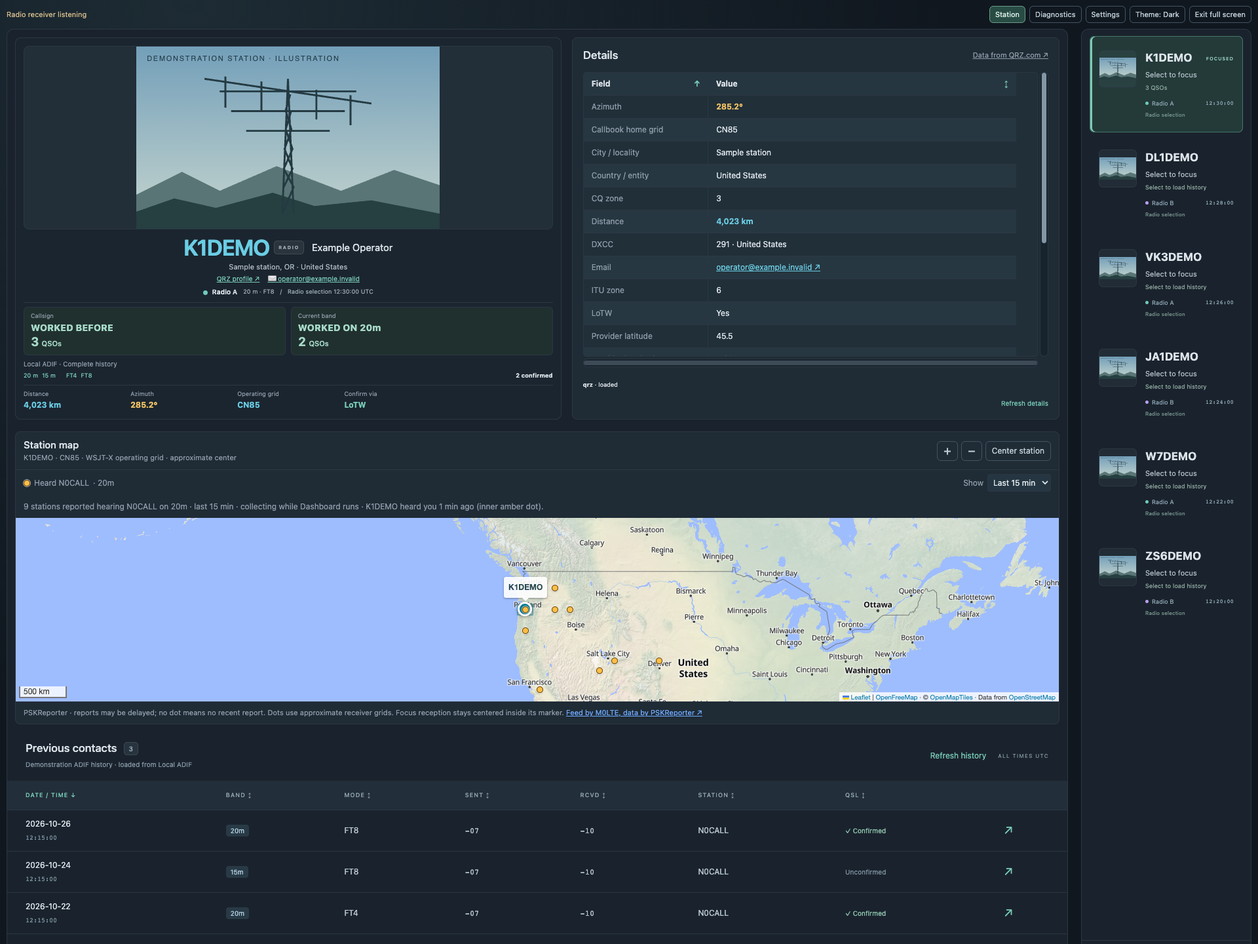
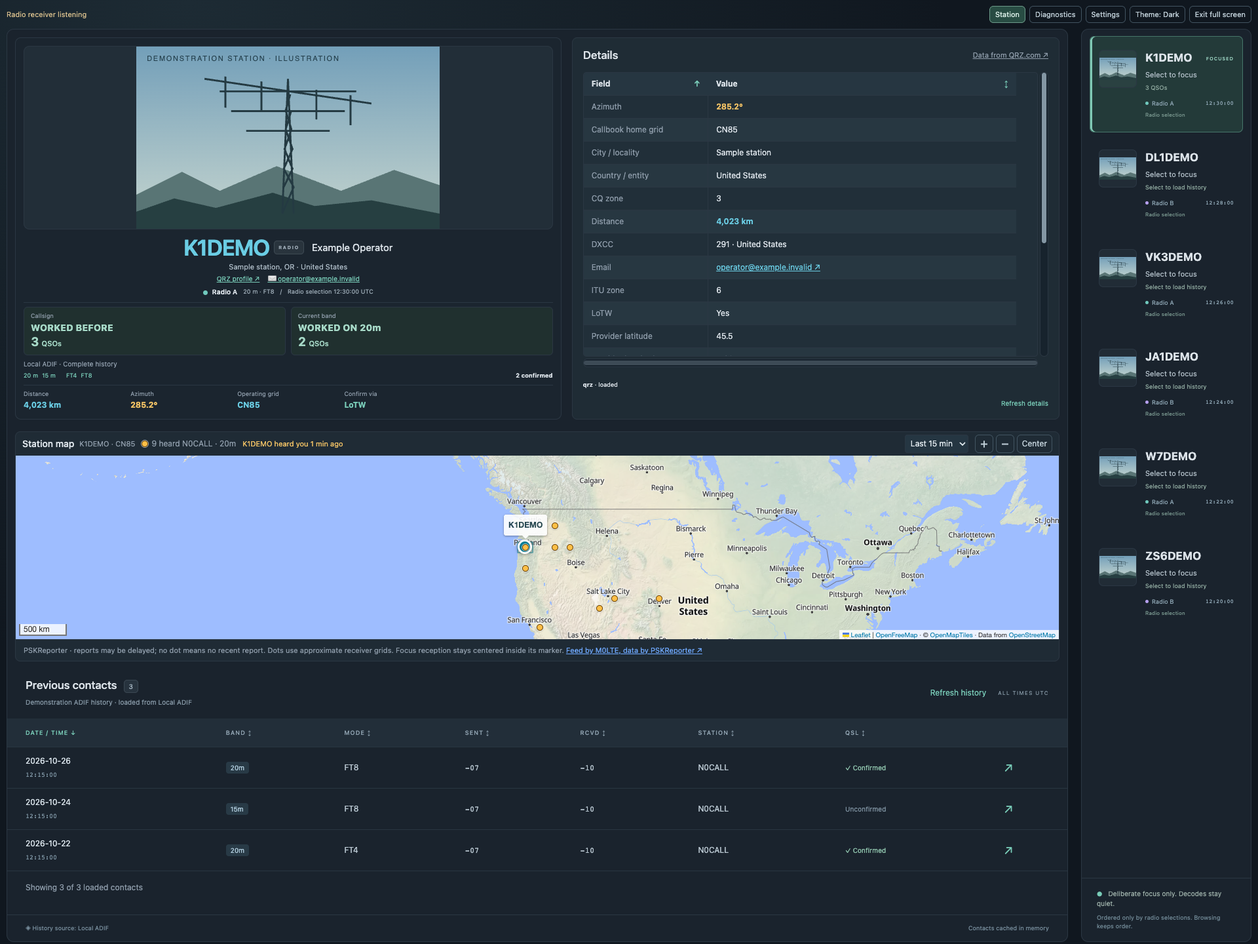
Compact Station map header into a single toolbar

diff --git a/src/style.css b/src/style.css
@@ -129,9 +129,9 @@
 
 /* Leaflet station locator spans both profile/details columns, above contacts. */
 .station-map{margin:0 12px 14px;border:1px solid var(--line);border-radius:8px;overflow:hidden;min-width:0;background:#1f2b35}.theme-light .station-map{background:#fff}
-.station-map-heading{display:flex;align-items:center;justify-content:space-between;gap:12px;padding:10px 12px}.station-map-heading h3{font-size:15px;margin:0 0 3px}.station-map-heading p{font-size:11px;color:var(--muted);margin:0;line-height:1.5}.station-map-controls{display:flex;gap:5px;flex-shrink:0}.station-map-controls .console-button{padding:4px 9px;font-size:12px;min-height:30px}.station-map-controls button:nth-child(-n+2){font-size:19px;line-height:1;min-width:32px}
+.station-map-heading{display:flex;align-items:center;flex-wrap:wrap;gap:6px 10px;padding:4px 10px;min-width:0}.station-map-identity{display:flex;align-items:center;gap:8px;min-width:0}.station-map-heading h3{font-size:14px;line-height:1.4;margin:0;white-space:nowrap}.station-map-location{font-size:11px;color:var(--muted);max-width:200px;overflow:hidden;text-overflow:ellipsis;white-space:nowrap}.station-map-summary{display:flex;align-items:center;flex-wrap:wrap;gap:3px 10px;font-size:12px;color:var(--muted)}.station-map-heard{display:flex;align-items:center;gap:5px;white-space:nowrap}.station-map-focus-heard{font-size:11px;color:#efc064;white-space:nowrap}.theme-light .station-map-focus-heard{color:#8b600d}.station-map-window{margin-left:auto;flex-shrink:0}.station-map-window select{height:28px;max-width:110px;background:#253642;color:#e0e8ed;border:1px solid var(--line);border-radius:4px;padding:2px 4px;font-size:12px}.station-map-controls{display:flex;gap:4px;flex-shrink:0}.station-map-controls .console-button{padding:2px 7px;font-size:12px;min-height:28px}.station-map-controls button:nth-child(-n+2){font-size:19px;line-height:1;min-width:28px}
 .station-map-canvas{height:280px;isolation:isolate;background:#d8e1e5;color:#213340;font-family:inherit}.station-map-canvas:focus-visible{outline:2px solid var(--station-accent);outline-offset:-2px}.station-map-canvas .leaflet-tooltip{font-family:inherit;font-size:12px;font-weight:700;color:#173a44}.station-map-pin{background:none;border:0}.station-map-pin>span{display:block;width:22px;height:22px;background:#087d94;border:3px solid white;border-radius:50%;box-shadow:0 1px 6px #0008}.station-map-note,.station-map-empty{padding:8px 12px;margin:0;font-size:12px;color:var(--muted)}.station-map-empty{padding:12px;min-height:50px}.station-map-canvas .leaflet-control-attribution{font-size:10px}
-@media(max-width:700px){.station-map-heading{flex-wrap:wrap;gap:8px}.station-map-canvas{height:240px}.station-map-controls{margin-left:auto}}
+@media(max-width:700px){.station-map-heading{display:grid;grid-template-columns:minmax(0,1fr) auto;gap:4px 8px;padding:4px 8px}.station-map-identity{grid-column:1;grid-row:1}.station-map-location{max-width:none}.station-map-controls{grid-column:2;grid-row:1}.station-map-summary{grid-column:1;grid-row:2;font-size:11px;min-width:0}.station-map-summary .station-map-heard,.station-map-summary .station-map-focus-heard{white-space:normal}.station-map-window{grid-column:2;grid-row:2;margin-left:0;justify-self:end}.station-map-canvas{height:240px}}
 
 /* Start directly with history entries; the accessible landmark retains its name. */
 .history-panel>.history-scroll{padding-top:10px}
@@ -155,9 +155,9 @@
 .diagnostic-legend{display:flex;align-items:center;flex-wrap:wrap;gap:7px;font-size:12px;margin:16px 0}.packet-badge{display:inline-block;padding:4px 7px;border:1px solid #697482;border-radius:5px;font-size:11px;font-weight:650;line-height:1.4;background:#29333c;color:#dce3e9}.packet-badge[data-activity="connection"]{color:#b7c3d0;background:#293441;border-color:#607387}.packet-badge[data-activity="radio"]{color:#99cff2;background:#203a4b;border-color:#4b8dad}.packet-badge[data-activity="signals"]{color:#9fdfca;background:#203e36;border-color:#588f7d}.packet-badge[data-activity="contacts"]{color:#f4d28f;background:#493c24;border-color:#9e8557}.packet-badge[data-activity="errors"]{color:#ffc0ad;background:#492c2a;border-color:#b87a66}.packet-summary{min-width:260px!important;max-width:430px!important;line-height:1.6}.packet-table{min-width:1080px}.packet-table td{padding-top:12px;padding-bottom:12px}.theme-light .packet-badge{background:#edf1f5;color:#405263}.theme-light .packet-badge[data-activity="radio"]{background:#e3f1fb;color:#205c7e}.theme-light .packet-badge[data-activity="signals"]{background:#e1f2e9;color:#245f49}.theme-light .packet-badge[data-activity="contacts"]{background:#fff1d5;color:#795209}.theme-light .packet-badge[data-activity="errors"]{background:#ffeae4;color:#933e24}.theme-light .details-sort-button span{color:#285c49}
 @media(max-width:700px){.settings-tabs button{flex:1 1 140px;padding:10px 8px;font-size:12px}.settings-section-panel{padding:16px;min-width:0}.settings-section-panel .receiver-form{grid-template-columns:minmax(0,1fr)}.settings-section-panel .settings-form{min-width:0}.settings-section-panel input,.settings-section-panel select{min-width:0;max-width:100%}.settings-section-panel .settings-form>.btn-success{max-width:100%}}
 .qso-settings-form>.qso-station-associations,.qso-settings-form>.qso-manual-overrides{grid-column:1/-1}.qso-station-associations>label{margin:12px 0}.station-associations{margin:18px 0}.station-associations p{font-size:12px}.station-associations table{min-width:600px}.station-associations small{display:block;color:var(--muted);margin-top:4px}.external-resolution{padding:12px;border:1px solid var(--line);border-radius:6px;margin:12px 0;display:grid;gap:10px;max-width:650px}.external-resolution label{display:grid;gap:6px}.external-resolution small{color:var(--muted)}.external-resolution .form-select{background:#14212a;color:inherit;border-color:var(--line)}.qso-delivery-job{padding:16px 0;border-top:1px solid var(--line)}.theme-light .external-resolution .form-select{background:white}
-.station-map-reception-bar{display:flex;align-items:center;justify-content:space-between;gap:8px;flex-wrap:wrap;padding:6px 12px;border-top:1px solid var(--line);font-size:12px;color:var(--muted)}.station-map-reception-bar>span{display:flex;align-items:center;gap:6px}.station-map-reception-bar label{display:flex;align-items:center;gap:6px}.station-map-reception-bar select{background:#253642;color:#e0e8ed;border:1px solid var(--line);border-radius:4px;padding:4px;max-width:130px}.station-map-reception{background:none;border:0}.station-map-reception>span,.reception-legend-dot{display:block;width:10px;height:10px;background:#ffbf47;border:1.5px solid #664000;border-radius:50%;box-shadow:0 0 0 1px #fff9,0 1px 3px #0006}.reception-legend-dot{display:inline-block;flex-shrink:0}.station-map-reception:focus-visible{outline:2px solid #263c48;outline-offset:3px;border-radius:50%}.reception-footnote{border-top:1px solid var(--line);font-size:11px}
+.station-map-reception{background:none;border:0}.station-map-reception>span,.reception-legend-dot{display:block;width:10px;height:10px;background:#ffbf47;border:1.5px solid #664000;border-radius:50%;box-shadow:0 0 0 1px #fff9,0 1px 3px #0006}.reception-legend-dot{display:inline-block;flex-shrink:0}.station-map-reception:focus-visible{outline:2px solid #263c48;outline-offset:3px;border-radius:50%}.reception-footnote{border-top:1px solid var(--line);font-size:11px}
 
-.theme-light .station-map-reception-bar select{background:#fff;color:#20323d}
+.theme-light .station-map-window select{background:#fff;color:#20323d}
 .diagnostics-view>h2{margin-top:0}.diagnostics-interface{padding-top:22px;min-width:0}.diagnostics-interface .diagnostics-heading h3{margin:4px 0 10px;font-size:24px}.psk-feed-badge{padding:7px 12px;border:1px solid var(--line);border-radius:20px;color:var(--station-amber);font-size:12px}.psk-feed-badge[data-status="connected"]{color:var(--mint)}.psk-diagnosis{padding:14px 16px;border:1px solid var(--line);border-left:3px solid var(--station-amber);border-radius:6px;font-size:14px}.psk-context{display:grid;grid-template-columns:1fr 1fr;gap:16px;margin:20px 0}.psk-context>div{display:grid;gap:5px;min-width:0}.psk-context span,.psk-context small{font-size:12px;color:var(--muted)}.psk-context strong{font-size:15px;overflow-wrap:anywhere}.psk-timestamps{display:grid;grid-template-columns:1fr 1fr;gap:8px 24px;margin-bottom:22px}.psk-timestamps p{font-size:12px;margin:0}.psk-band-list{display:flex;gap:8px;flex-wrap:wrap;margin:12px 0}.psk-band-list p{font-size:13px}.psk-rejection-reasons{display:flex;flex-wrap:wrap;gap:8px 18px;font-size:12px;color:var(--station-amber);margin:12px 0}.psk-topic{display:block;max-width:270px;overflow:hidden;text-overflow:ellipsis}.psk-report-table{min-width:800px}.psk-event-scroll{max-height:240px}.psk-diagnostics>h3{font-size:17px;margin:22px 0 12px}.psk-diagnostics h3 small{display:block;font-size:12px;color:var(--muted);margin-top:5px}.psk-subscriptions code{color:inherit}.psk-stats strong{font-variant-numeric:tabular-nums}@media(max-width:700px){.psk-context,.psk-timestamps{grid-template-columns:minmax(0,1fr)}.psk-context strong{font-size:14px}.psk-diagnosis{font-size:13px}}
 
 .psk-report-table td small{display:block;font-size:11px;line-height:1.5;margin-top:3px;color:var(--muted)}.psk-report-table td.error-text small{color:inherit}.theme-light .psk-rejection-reasons{color:#8c5100}

diff --git a/src/components/StationMap.vue b/src/components/StationMap.vue
@@ -23,6 +23,12 @@ const receptionStatus = computed(() => {
  if (feed.status !== 'connected') return `PSKReporter ${feed.status} · ${feed.error || 'Waiting for the live feed.'} Recent dots continue to expire.`
  return `${spots.value.length} ${spots.value.length === 1 ? 'station' : 'stations'} reported hearing ${props.sender} on ${props.entry.band} · last ${minutes.value} min · collecting while Dashboard runs`
 })
+const receptionNeedsAttention = computed(() => props.receptions?.config.enabled && (!props.connected || !props.sender || !props.entry?.band || props.receptions.status !== 'connected'))
+const receptionSummary = computed(() => {
+ if (!props.receptions?.config.enabled) return 'PSKReporter off'
+ if (receptionNeedsAttention.value) return 'PSKReporter · check status'
+ return `${spots.value.length} heard ${props.sender} · ${props.entry?.band}`
+})
 const host = ref<HTMLDivElement>(), tilesFailed = ref(false), mapFailed = ref(false), zoom = ref(4), ready = ref(false)
 const basemapReady = ref(false)
 let map: LeafletMap | undefined, markers: LayerGroup | undefined, receptionMarkers: LayerGroup | undefined, observer: ResizeObserver | undefined
@@ -121,12 +127,13 @@ onBeforeUnmount(() => { mounted = false; generation++; window.clearInterval(ageT
 </script>
 <template>
  <section class="station-map" aria-labelledby="station-map-title">
-  <div class="station-map-heading"><div><h3 id="station-map-title">Station map</h3><p v-if="location">{{ call }} · {{ location.label }} · {{ location.detail }}</p></div><div v-if="location" class="station-map-controls" aria-label="Map controls"><button class="btn console-button" :disabled="zoom >= 19 || !ready" aria-label="Zoom in station map" @click="map?.zoomIn()">+</button><button class="btn console-button" :disabled="zoom <= 2 || !ready" aria-label="Zoom out station map" @click="map?.zoomOut()">−</button><button class="btn console-button" :disabled="!ready" @click="center">Center station</button></div></div>
-  <div v-if="receptions?.config.enabled" class="station-map-reception-bar">
-   <span><i class="reception-legend-dot" aria-hidden="true"></i> Heard {{ sender || 'me' }}<span v-if="entry?.band"> · {{ entry.band }}</span></span>
-   <label>Show <select v-model.number="minutes" aria-label="Reception time window"><option v-for="n in [5,15,30,60]" :key="n" :value="n">Last {{ n }} min</option></select></label>
+  <div class="station-map-heading">
+   <div class="station-map-identity"><h3 id="station-map-title">Station map</h3><span v-if="location" class="station-map-location" :title="`${call} · ${location.label} · ${location.detail}`">{{ call }} · {{ location.label }}<span class="visually-hidden"> · {{ location.detail }}</span></span></div>
+   <div v-if="receptions" class="station-map-summary" :title="receptionStatus" role="status"><span class="station-map-heard"><i v-if="receptions.config.enabled" class="reception-legend-dot" aria-hidden="true"></i>{{ receptionSummary }}</span><span v-if="focusSpot" class="station-map-focus-heard">{{ call }} heard you {{ Math.max(0, Math.floor((now - focusSpot.heardAt) / 60000)) }} min ago</span></div>
+   <label v-if="receptions?.config.enabled" class="station-map-window"><span class="visually-hidden">Reception time window</span><select v-model.number="minutes" aria-label="Reception time window"><option v-for="n in [5,15,30,60]" :key="n" :value="n">Last {{ n }} min</option></select></label>
+   <div v-if="location" class="station-map-controls" aria-label="Map controls"><button class="btn console-button" :disabled="zoom >= 19 || !ready" aria-label="Zoom in station map" @click="map?.zoomIn()">+</button><button class="btn console-button" :disabled="zoom <= 2 || !ready" aria-label="Zoom out station map" @click="map?.zoomOut()">−</button><button class="btn console-button" :disabled="!ready" aria-label="Center station" @click="center">Center</button></div>
   </div>
-  <p v-if="receptions" class="station-map-note" role="status">{{ receptionStatus }}<span v-if="focusSpot"> · {{ call }} heard you {{ Math.max(0, Math.floor((now - focusSpot.heardAt) / 60000)) }} min ago (inner amber dot).</span><span v-if="receptions.evicted"> · Reception cache reached capacity; some reports were dropped.</span></p>
+  <p v-if="receptionNeedsAttention || receptions?.evicted" class="station-map-note" role="status"><span v-if="receptionNeedsAttention">{{ receptionStatus }}</span><span v-if="receptions?.evicted"> Reception cache reached capacity; some reports were dropped.</span></p>
   <p v-if="!location" class="station-map-empty" role="status">{{ enrichment?.result.call === call && enrichment.result.status === 'pending' ? `Locating ${call}…` : 'Station location unavailable. A reported grid or callbook location is needed.' }}</p>
   <template v-else><div ref="host" class="station-map-canvas" role="region" :aria-label="`Map showing ${call}`" :data-lat="location.lat" :data-lng="location.lng" :data-zoom="zoom" :data-basemap-state="tilesFailed ? 'unavailable' : basemapReady ? 'ready' : 'loading'" @wheel.capture="modifierZoom"></div><p v-if="mapFailed" class="station-map-note error-text" role="status">Map could not load. Refresh the page to try again.</p><p v-else-if="tilesFailed" class="station-map-note" role="status">Base map unavailable. The station marker is still shown; map tiles need an internet connection and a browser with WebGL support.</p></template>
   <p v-if="receptions?.config.enabled" class="station-map-note reception-footnote">PSKReporter · reports may be delayed; no dot means no recent report. Dots use approximate receiver grids. Focus reception stays centered inside its marker. <a href="https://www.mqtt.pskreporter.info/" target="_blank" rel="noopener noreferrer">Feed by M0LTE, data by PSKReporter ↗</a></p>

diff --git a/tests/e2e/pskreporter.spec.ts b/tests/e2e/pskreporter.spec.ts
@@ -28,6 +28,12 @@ test('reception dots follow focus band and transmitting identity, expire, and pr
  await page.goto('/')
  await expect(page.locator('.station-map-canvas')).toHaveAttribute('data-basemap-state','ready')
  await expect(page.locator('.station-map-reception')).toHaveCount(2)
+ const header=await page.locator('.station-map-heading').boundingBox()
+ const mapCanvas=await page.locator('.station-map-canvas').boundingBox()
+ expect(header!.height).toBeLessThanOrEqual(44)
+ expect(mapCanvas!.height).toBe(280)
+ await expect(page.getByRole('button',{name:'Center station',exact:true})).toBeVisible()
+ await expect(page.getByLabel('Reception time window')).toBeVisible()
  await expect(page.locator('.station-map')).toContainText('K1FOCUS heard you 1 min ago')
  const focus=page.locator('.station-map-pin'), heard=page.locator('.station-map-reception[aria-label^="K1FOCUS heard"]')
  const a=await focus.boundingBox(), b=await heard.boundingBox()
@@ -56,13 +62,24 @@ test('reception dots follow focus band and transmitting identity, expire, and pr
  snapshot.revision++;snapshot.history[0]!.band='15m'
  await page.evaluate(data=>window.dispatchEvent(new CustomEvent('psk-fixture',{detail:data})),snapshot)
  await expect(page.locator('.station-map-reception')).toHaveCount(1)
- await expect(page.locator('.station-map')).not.toContainText('inner amber dot')
+ await expect(page.locator('.station-map-focus-heard')).toHaveCount(0)
  snapshot.revision++;snapshot.history[0]!.band='20m';snapshot.history[0]!.stationCall='K5OTHER'
  snapshot.preferences.appearance='light'
  await page.evaluate(data=>window.dispatchEvent(new CustomEvent('psk-fixture',{detail:data})),snapshot)
  await expect(page.locator('.station-map-reception')).toHaveCount(1)
  await expect(page.locator('.station-map-reception')).toHaveAttribute('aria-label',/^K6IDENTITY heard K5OTHER/)
+ // A feed outage must retain its visible explanation rather than read as zero reception.
+ snapshot.revision++;snapshot.pskreporter.status='reconnecting';snapshot.pskreporter.error='Fixture upstream outage'
+ await page.evaluate(data=>window.dispatchEvent(new CustomEvent('psk-fixture',{detail:data})),snapshot)
+ await expect(page.locator('.station-map-note[role="status"]')).toContainText('Fixture upstream outage')
+ snapshot.revision++;snapshot.pskreporter.status='connected';snapshot.pskreporter.error=''
+ await page.evaluate(data=>window.dispatchEvent(new CustomEvent('psk-fixture',{detail:data})),snapshot)
+ await expect(page.locator('.station-map-note[role="status"]')).toHaveCount(0)
+ snapshot.revision++;snapshot.history[0]!.stationCall='N0CALL'
+ await page.evaluate(data=>window.dispatchEvent(new CustomEvent('psk-fixture',{detail:data})),snapshot)
  await page.setViewportSize({width:390,height:844})
+ await expect(page.locator('.station-map-focus-heard')).toBeVisible()
+ expect((await page.locator('.station-map-heading').boundingBox())!.height).toBeLessThanOrEqual(84)
  await page.getByRole('button',{name:'Center station',exact:true}).click()
  await page.locator('.station-map').screenshot({path:'test-results/pskreporter-map-light-mobile.png'})
  expect(await page.evaluate(()=>document.documentElement.scrollWidth<=innerWidth)).toBe(true)

diff --git a/docs/current-checkpoint.md b/docs/current-checkpoint.md
@@ -1,5 +1,9 @@
 # Current checkpoint — reviewed main baseline
 
+**November 6 — compact Station map header publication authorized:** the operator requested substantially less header height and publication to `main` after validation. The three normal header rows become a slim toolbar with station/grid, compact heard-me and focused-station summaries, time window and zoom/Center controls. Full location-source and reception detail remain available in hover text/screen-reader content. Missing identity/band, browser/feed failures and cache-capacity warnings still have a visible explanatory row when needed. Narrow screens use a compact two-row arrangement with wrapping status text. Map height, markers, pan/zoom behavior, focus/history and backend/integration logic are unchanged; version remains **`0.9.0-rc.1`**.
+
+With the same 1560px-wide fictional fixture, actual built-browser measurement reduced the header above the canvas from **131.5px to 36px** (about **73%**, saving **95.5px**). The desktop map canvas stays **280px**. **38 frontend tests**, type checking/production build and the affected Chrome reception workflow passed. Checks cover a ≤44px desktop toolbar, compact positive-focus mobile state, visible controls, preserved pan, time/band/identity filtering, expiry, outage explanations and narrow overflow. The standard/full-screen/map-close-up documentation images were refreshed and visually reviewed with all nine fictional dots visible and attribution retained. No live station service, saved settings/logs/queues or radio commands were changed. Exact committed-source installation/publication evidence follows after final checks; this feature was tested on macOS/Chrome, not separately on Ubuntu/other browsers.
+
 **November 6 — reviewed launcher and reception imagery publication:** the operator requested an executable foreground **`run.sh`**, updated documentation imagery showing PSKReporter dots, and publication to `main` after validation through [PR #19](https://github.com/kf6ufo/wsjtx-dashboard/pull/19). Validated source **`9326fd6`** preserves feature history. `./run.sh` selects the installation's own Python without environment activation, changes to the installation directory and forwards all server arguments with `exec`; custom `--config` paths are supported. A missing Python environment yields an actionable installation message. Current startup docs and installer/updater success messages use the launcher; older direct Python commands remain supported. Version stays **`0.9.0-rc.1`**.
 
 The standard and native full-screen README images are refreshed with nine fictional same-band reception reports, and the [PSKReporter guide](pskreporter.md) gains a [map close-up](assets/pskreporter-map.png). The fixture clock makes report ages reproducible; the capture script verifies all nine dots lie within the visible map. Map attribution and existing fictional profile/photo fixtures are preserved. These are actual built-interface captures, not live reception evidence. The summary-only hero is unchanged.

diff --git a/docs/pskreporter.md b/docs/pskreporter.md
@@ -10,7 +10,7 @@ Enable **Settings → PSKReporter → Show recent reception reports**, choose a 
 
 The Station map shows small amber receiver dots for reports that match **your transmitting callsign and the focus entry's band**. All modes on that band count. The selected station keeps its larger teal marker; an amber dot inside it means that exact receiver callsign reported hearing you. That inner dot is placed at the existing focus marker even if the receiver reported a coarser/different grid. Other receivers use their reported Maidenhead grid centers. Locations are approximate. Hover or keyboard-focus a dot for receiver, sender, band, mode, SNR and report age.
 
-Choose **Last 5, 15, 30 or 60 min** above the map. This applies immediately to that browser without an upstream request; Settings saves the shared default. The initial default is 15 minutes. New reports preserve map pan/zoom. Use **Center station** to return to the focus, or zoom out to see receivers farther away. The overlay never selects a station, changes Focus History or sends commands to WSJT-X.
+Choose **Last 5, 15, 30 or 60 min** above the map. This applies immediately to that browser without an upstream request; Settings saves the shared default. The initial default is 15 minutes. New reports preserve map pan/zoom. Use **Center** to return to the focus, or zoom out to see receivers farther away. The compact toolbar keeps the station/grid, reception count, time window and map controls together. Hover the station/grid for full location-source details; connection or missing-data explanations appear below the toolbar when needed. The overlay never selects a station, changes Focus History or sends commands to WSJT-X.
 
 Reports are collected while the server runs. There is no historical backfill, XML polling or query per focus request. An empty map means no matching recent reports have been collected, not that nobody can hear you. PSKReporter uploads may be delayed; this is recent reception evidence, not instantaneous radio telemetry. Feed errors and Dashboard disconnects are shown independently of available cached dots. Dots continue to expire during outages.
 

diff --git a/docs/assets/README.md b/docs/assets/README.md
@@ -6,7 +6,7 @@
 
 `dashboard-fullscreen.png` captures the same built interface after clicking its native **Full screen** control, at a 1920 × 1440 viewport. It shows the compact toolbar and reduced margins with the Dashboard title/footer hidden. This capture keeps the real viewport size; Chrome's full-page capture can partially redraw WebGL when resizing a native fullscreen surface. The standard view is a full-page capture. The script waits for the basemap to load, and both images retain map attribution. The README displays full screen and links the refreshed standard view for comparison. The hero crop remains a station-summary image; the refreshed standard and full-screen captures show the PSKReporter overlay.
 
-`pskreporter-map.png` is a close-up of the same Station map, used in the PSKReporter guide and linked from the README. It preserves the map controls, time-window label, focus dot and basemap attribution. All reception reports are fictional; this is not evidence of live PSKReporter acceptance.
+`pskreporter-map.png` is a close-up of the same Station map, used in the PSKReporter guide and linked from the README. It preserves the map controls, time-window label, focus dot and basemap attribution. The captures now show the compact Station map toolbar, bringing the canvas higher on the page. All reception reports are fictional; this is not evidence of live PSKReporter acceptance.
 
 Reproduce from an installed development checkout:
 

diff --git a/AGENTS.md b/AGENTS.md
@@ -26,6 +26,8 @@ The November 6 operator request authorizes publishing the reviewed UDP / PSKRepo
 
 The November 6 operator request authorizes an executable foreground `run.sh` launcher, updated installation/startup guidance and documentation screenshots illustrating PSKReporter dots, plus publication to `main` after validation. Screenshots must use fictional reports and preserve attribution. Keep version `0.9.0-rc.1`; do not change/restart the operating installation, saved settings, radio services or logging as part of this source/documentation publication.
 
+The November 6 operator request authorizes compacting the Station map header and publishing the change to `main` after validation. Preserve map controls, reception/error distinctions and the operating installation. This is a presentation-only update; keep `0.9.0-rc.1`, saved settings and integration/logging behavior unchanged.
+
 0. Visual Station/Diagnostics/Settings foundation, server-owned sample state, SSE/reconnect snapshots, real native macOS and Ubuntu install path. Show Step 0 for review before Step 1.
 1. Configurable primary WSJT-X UDP reception and bounded diagnostics.
 2. Configurable enrichment (pyhamtools and verified callbook capabilities).

diff --git a/CHANGELOG.md b/CHANGELOG.md
@@ -18,6 +18,8 @@ November 5, 2026: operator-approved Release Candidate 1 for testing from `main`.
 
 ### Changed
 
+- Compact Station map toolbar combines location, reception summary, window and zoom/center controls; the normal desktop header is about 73% shorter. Detailed error states remain visible when needed.
+
 - Package and lockfile versions advance from `0.9.0-beta.1` to `0.9.0-rc.1`; current operator documentation identifies RC1.
 
 ### Validation and limits
